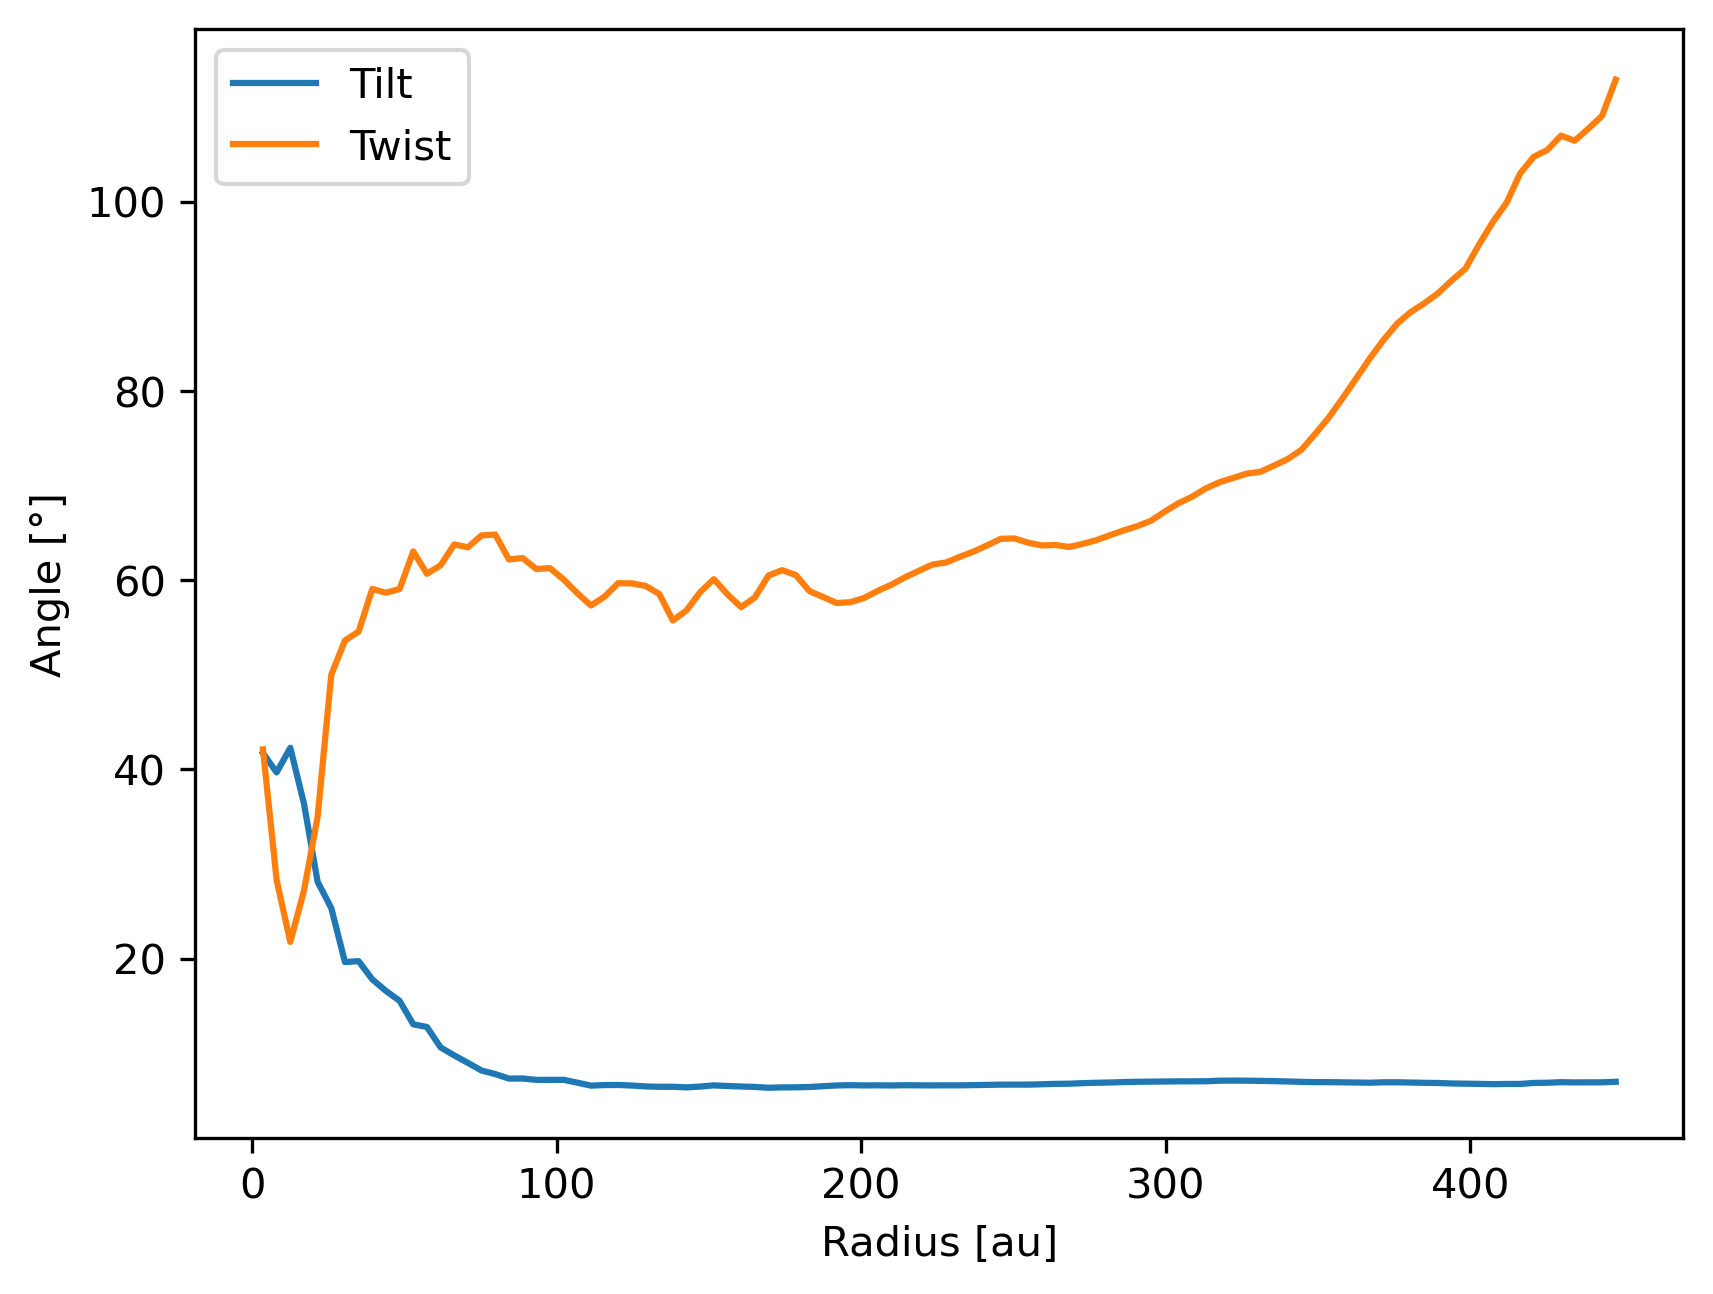
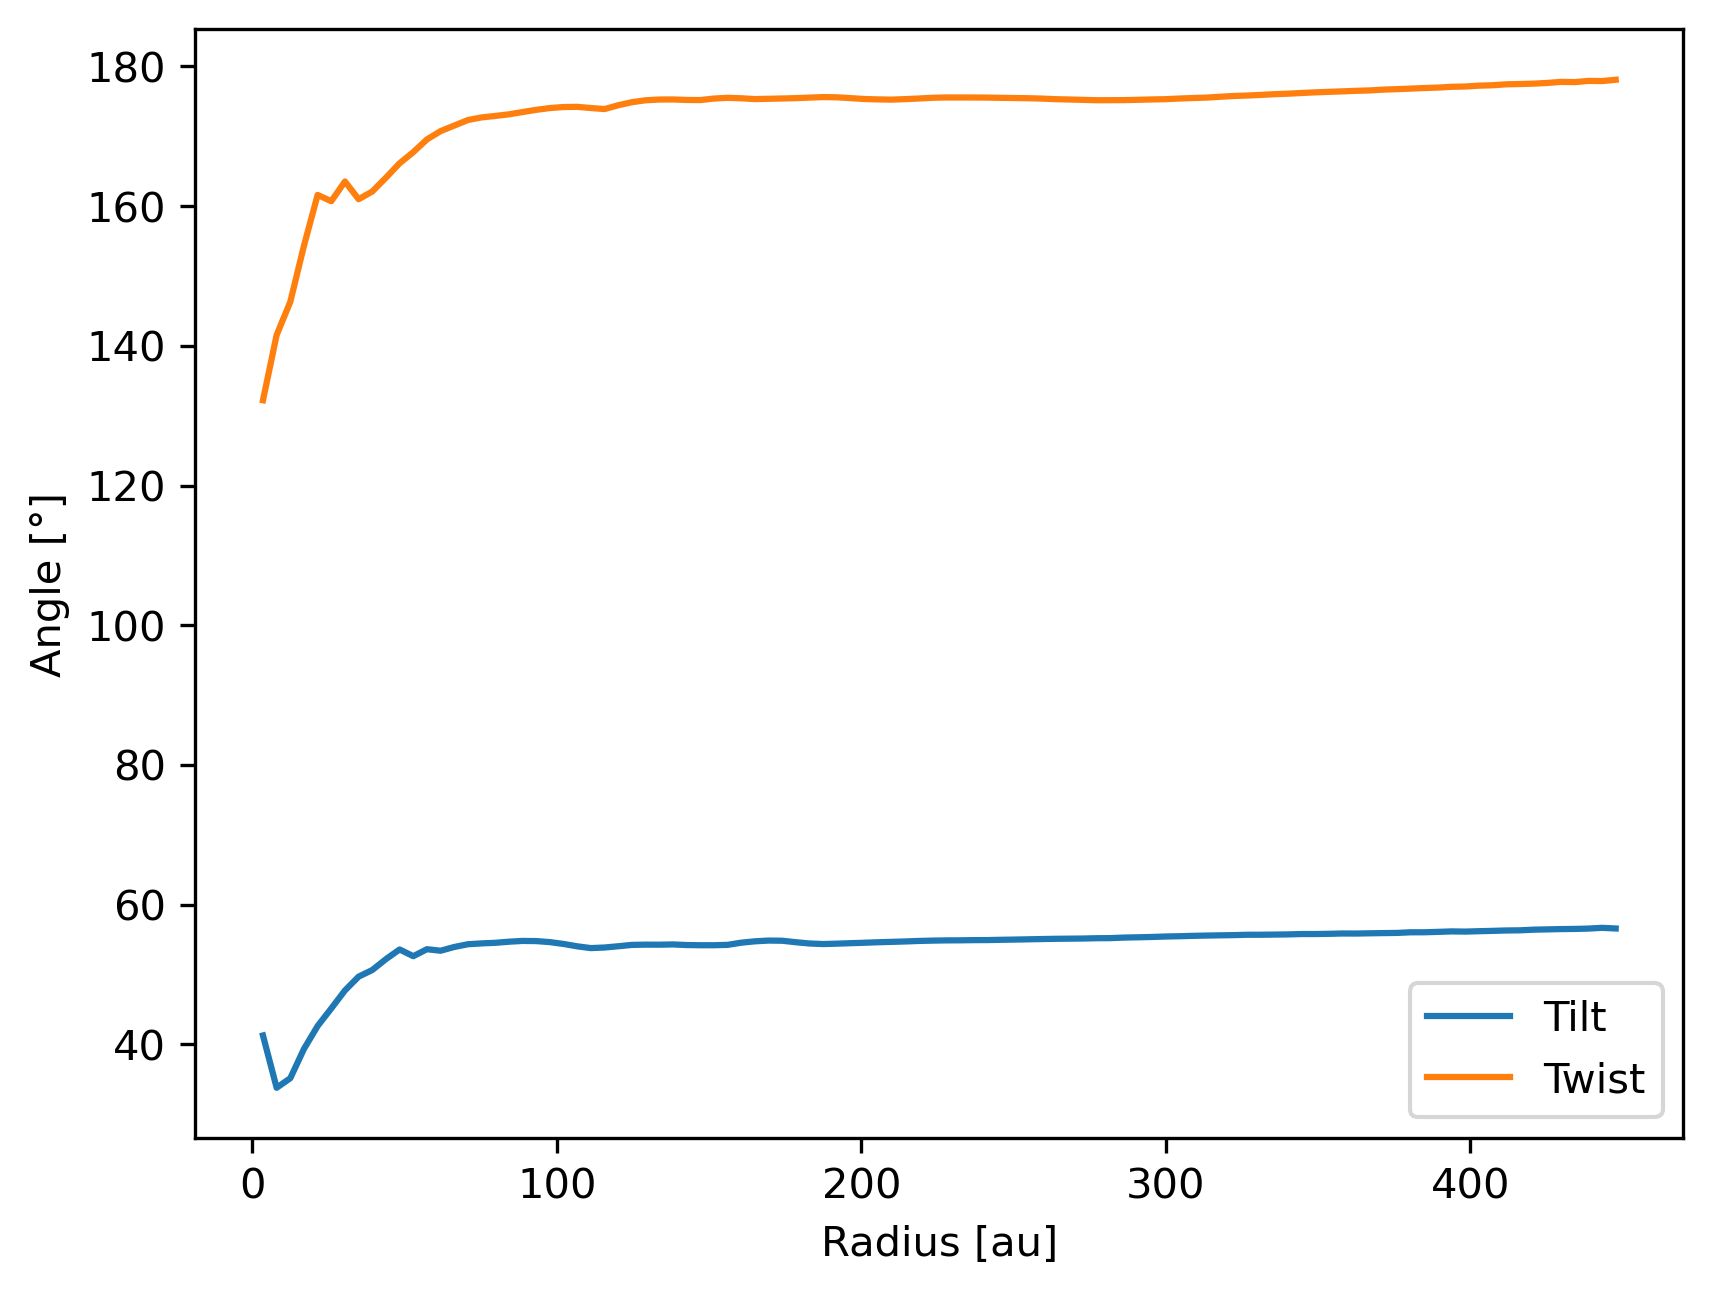
Fix bugs in rotation to face-on and edge-on

diff --git a/plonk/analysis/discs.py b/plonk/analysis/discs.py
@@ -298,58 +298,76 @@ def stokes_number(
     return Stokes
 
 
-def unit_normal(snap: SnapLike) -> ndarray:
-    """Calculate unit normal to disc.
+def unit_normal(snap: SnapLike, sinks: bool = False) -> ndarray:
+    """Calculate unit normal to plane of rotation.
+
+    I.e. calculate a unit angular momentum vector.
 
     Parameters
     ----------
     snap
-        The Snap object which is assumed to be a single disc.
+        The Snap object.
+    sinks : optional
+        Include sink particles. Default is False.
 
     Returns
     -------
     ndarray
-        A unit normal to the plane of the disc.
+        A unit angular momentum vector.
     """
-    origin = center_of_mass(snap=snap, sinks=False)
-    L = angular_momentum(snap=snap, sinks=False, origin=origin).magnitude
+    origin = center_of_mass(snap=snap, sinks=sinks)
+    L = angular_momentum(snap=snap, sinks=sinks, origin=origin).magnitude
     return L / np.linalg.norm(L)
 
 
-def rotate_face_on(snap: SnapLike) -> SnapLike:
-    """Rotate disc to face-on.
+def rotate_face_on(snap: SnapLike, sinks: bool = False) -> SnapLike:
+    """Rotate to face-on with the angular momentum vector.
+
+    I.e. rotate such that the angular momentum points in the
+    z-direction.
 
     Parameters
     ----------
     snap
         The Snap object.
+    sinks : optional
+        Include sink particles. Default is False.
 
     Returns
     -------
     Snap
         The rotated Snap.
     """
-    x, y, z = unit_normal(snap=snap)
-    axis = (-x, y, 0)
-    angle = np.arctan(np.sqrt(x ** 2 + y ** 2) / z)
+    vec = unit_normal(snap=snap, sinks=sinks)
+    z_axis = np.array([0, 0, 1])
+    axis = cross(vec, z_axis)
+    angle = np.arccos(np.dot(vec, z_axis))
     return snap.rotate(axis=axis, angle=angle)
 
 
-def rotate_edge_on(snap: SnapLike) -> SnapLike:
-    """Rotate disc to edge-on.
+def rotate_edge_on(snap: SnapLike, sinks: bool = False) -> SnapLike:
+    """Rotate to edge-on with the angular momentum vector.
+
+    I.e. rotate such that the angular momentum points in the
+    y-direction.
 
     Parameters
     ----------
     snap
         The Snap object.
+    sinks : optional
+        Include sink particles. Default is False.
 
     Returns
     -------
     Snap
         The rotated Snap.
     """
-    snap = rotate_face_on(snap=snap)
-    return snap.rotate(axis=(1, 0, 0), angle=np.pi / 2)
+    vec = unit_normal(snap=snap, sinks=sinks)
+    y_axis = np.array([0, 1, 0])
+    axis = cross(vec, y_axis)
+    angle = np.arccos(np.dot(vec, y_axis))
+    return snap.rotate(axis=axis, angle=angle)
 
 
 def position_angle(snap: SnapLike) -> Quantity:

diff --git a/docs/source/examples/misaligned-binary.rst b/docs/source/examples/misaligned-binary.rst
@@ -17,12 +17,13 @@ binary.
 .. code-block:: python
 
     import plonk
+    from plonk import analysis
 
+    # Load snap
     snap = plonk.load_snap('disc_00060.h5')
-
     snap.set_units(density='g/cm^3', position='au', projection='cm', velocity='km/s')
 
-    # Plot column density and add sinks
+    # Plot column density with sinks
     ax = snap.image(quantity='density', cmap='gist_heat', norm='log', vmin=3e-3)
     snap.sinks.plot(color='green', ax=ax)
 
@@ -36,13 +37,16 @@ binary.
         colorbar_kwargs={'extend': 'both'},
     )
 
-    # Plot tilt and twist as radial profile
+    # Rotate to face-on w.r.t. total angular momentum of system
+    analysis.discs.rotate_face_on(snap=snap, sinks=True)
+
+    # Generate radial profile in plane perpendicular to total system angular momentum
     prof = plonk.load_profile(snap, cmax='450 au')
     prof.set_units(
-        position='au',
-        angular_momentum_theta='degrees',
-        angular_momentum_phi='degrees',
+        position='au', angular_momentum_theta='degrees', angular_momentum_phi='degrees'
     )
+
+    # Plot tilt and twist as radial profile
     prof.plot(
         x='radius',
         y=['angular_momentum_theta', 'angular_momentum_phi'],
